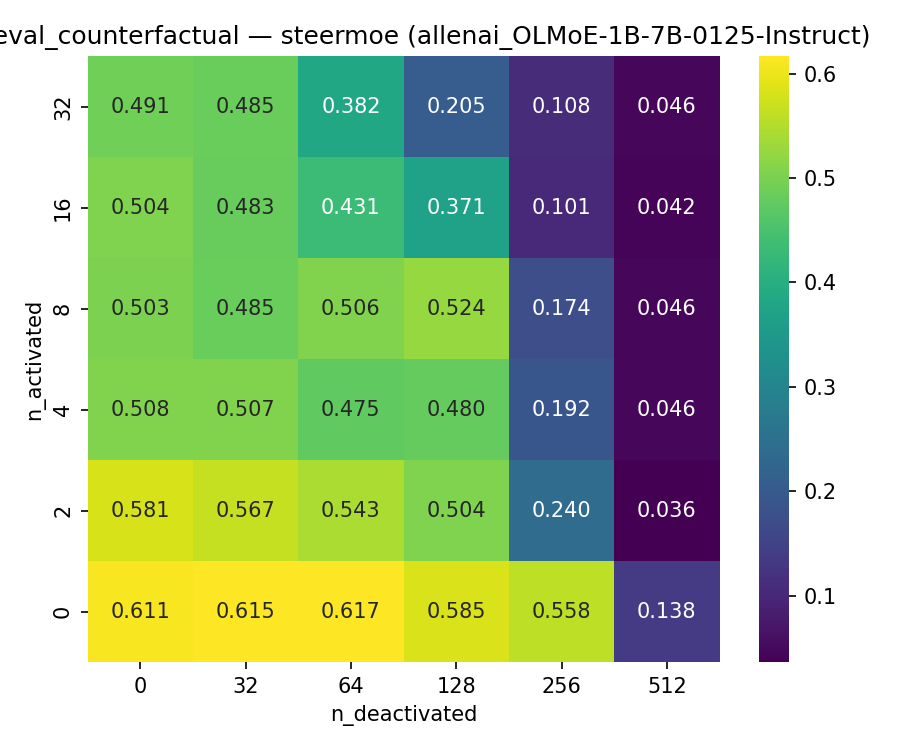
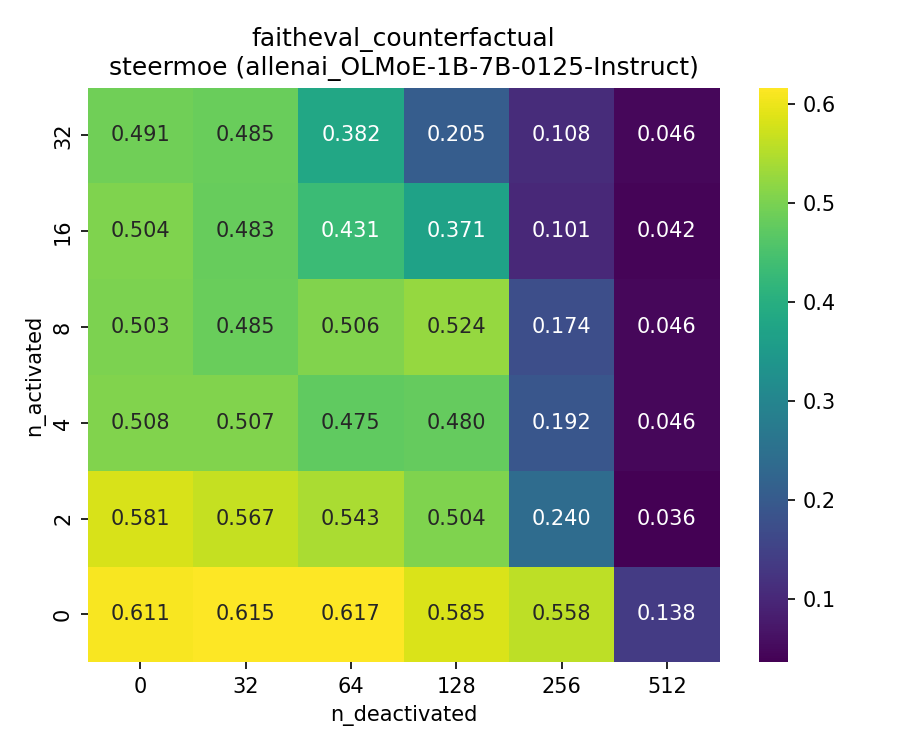
added mean heatmap

diff --git a/src/visualization/heatmap.py b/src/visualization/heatmap.py
@@ -1,6 +1,6 @@
 import os
 import re
-from typing import Literal
+from typing import List, Literal
 
 import matplotlib.pyplot as plt
 import numpy as np
@@ -26,6 +26,47 @@ ModelName = Literal[
 ]
 
 
+def save_heatmap(
+    model_name: ModelName,
+    algorithm: str,
+    visualization_dir: str,
+    benchmark_name: str,
+    data: List[List[int]],
+    act_labels: List[int],
+    deact_labels: List[int],
+):
+    fig, ax = plt.subplots(
+        figsize=(max(6, len(deact_labels) * 0.6), max(5, len(act_labels) * 0.5))
+    )
+
+    heatmap_kw: dict = {
+        "data": data,
+        "ax": ax,
+        "xticklabels": deact_labels,
+        "yticklabels": act_labels[::-1],
+        "annot": True,
+        "fmt": ".3f",
+        "cmap": "viridis",
+    }
+
+    if np.isfinite(data).any():
+        heatmap_kw["vmin"] = float(np.nanmin(data))
+        heatmap_kw["vmax"] = float(np.nanmax(data))
+
+    sns.heatmap(**heatmap_kw)
+    ax.set_xlabel("n_deactivated")
+    ax.set_ylabel("n_activated")
+    ax.set_title(f"{benchmark_name}\n{algorithm} ({model_name})")
+    fig.tight_layout()
+
+    folder = os.path.join(visualization_dir, "heatmap", model_name)
+    os.makedirs(folder, exist_ok=True)
+
+    out_path = os.path.join(folder, f"{algorithm}_{benchmark_name}_heatmap.png")
+    fig.savefig(out_path, dpi=150)
+    plt.close(fig)
+
+
 def main(
     model_name: ModelName, algorithm: str, inference_dir: str, visualization_dir: str
 ):
@@ -41,6 +82,8 @@ def main(
     }
 
     pattern = rf"{algorithm}_a(\d+)_d(\d+)"
+
+    cum_heatmap = None
 
     for benchmark_name, score_fn in benchmarks.items():
         n_activateds, n_deactivateds = set({}), set({})
@@ -61,42 +104,35 @@ def main(
         act_labels = sorted(list(n_activateds))
         deact_labels = sorted(list(n_deactivateds))
         heatmap = [[0] * len(deact_labels) for _ in range(len(act_labels))]
+        if not cum_heatmap:
+            cum_heatmap = [[0] * len(deact_labels) for _ in range(len(act_labels))]
 
         for i, act in enumerate(act_labels):
             for j, deact in enumerate(deact_labels):
                 heatmap[i][j] = scores[(act, deact)]
+                cum_heatmap[i][j] += scores[(act, deact)]
 
-        data = np.asarray(heatmap, dtype=np.float64)[::-1, :]
-        fig, ax = plt.subplots(
-            figsize=(max(6, len(deact_labels) * 0.6), max(5, len(act_labels) * 0.5))
+        heatmap = np.asarray(heatmap, dtype=np.float64)[::-1, :]
+        save_heatmap(
+            model_name=model_name,
+            algorithm=algorithm,
+            visualization_dir=visualization_dir,
+            benchmark_name=benchmark_name,
+            data=heatmap,
+            act_labels=act_labels,
+            deact_labels=deact_labels,
         )
 
-        heatmap_kw: dict = {
-            "data": data,
-            "ax": ax,
-            "xticklabels": deact_labels,
-            "yticklabels": act_labels[::-1],
-            "annot": True,
-            "fmt": ".3f",
-            "cmap": "viridis",
-        }
-
-        if np.isfinite(data).any():
-            heatmap_kw["vmin"] = float(np.nanmin(data))
-            heatmap_kw["vmax"] = float(np.nanmax(data))
-
-        sns.heatmap(**heatmap_kw)
-        ax.set_xlabel("n_deactivated")
-        ax.set_ylabel("n_activated")
-        ax.set_title(f"{benchmark_name} — {algorithm} ({model_name})")
-        fig.tight_layout()
-
-        folder = os.path.join(visualization_dir, "heatmap", model_name)
-        os.makedirs(folder, exist_ok=True)
-
-        out_path = os.path.join(folder, f"{algorithm}_{benchmark_name}_heatmap.png")
-        fig.savefig(out_path, dpi=150)
-        plt.close(fig)
+    cum_heatmap = np.array(cum_heatmap, dtype=np.float64)[::-1, :] / len(benchmarks)
+    save_heatmap(
+        model_name=model_name,
+        algorithm=algorithm,
+        visualization_dir=visualization_dir,
+        benchmark_name="all",
+        data=cum_heatmap,
+        act_labels=act_labels,
+        deact_labels=deact_labels,
+    )
 
 
 if __name__ == "__main__":
